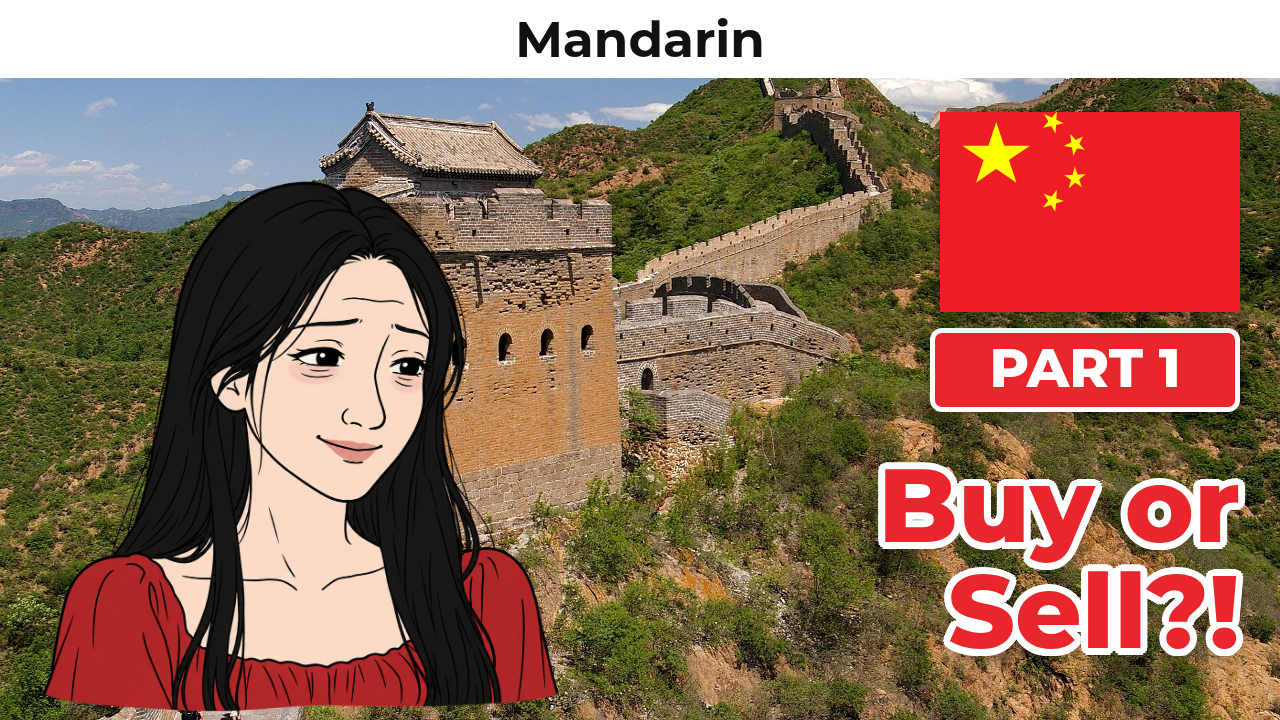
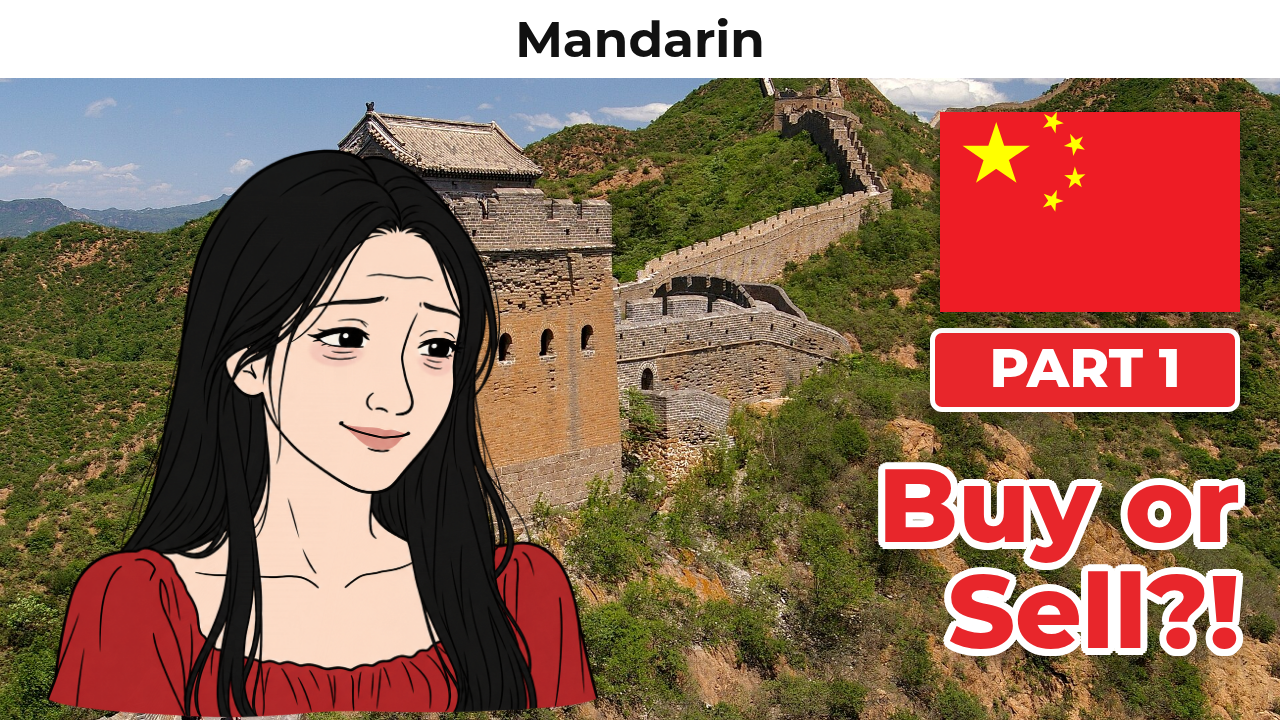
Thumbnails: trim Wojak margin so it sits on the bottom edge
Claude-Session: https://claude.ai/code/session_01JteZbjgJzANfm9zkD8PK4e

Changed region(s): [[0.0312, 0.1833, 0.4688, 1.0], [0.1562, 0.275, 0.1875, 0.3056]]

diff --git a/.claude/skills/lingodude-video-method/SKILL.md b/.claude/skills/lingodude-video-method/SKILL.md
@@ -57,7 +57,7 @@ Code lives in `lingo/` (repo anaqqad/Test). Commit and push every finished step 
 - Always the channel look:
   - white name strip with the language name;
   - real landscape photo (free licence from Commons, credited in the description);
-  - Wojak on the left, flag top right;
+  - Wojak on the left, touching the bottom edge (transparent margin trimmed, no gap), flag top right;
   - red PART label for series;
   - hook of 2 short lines in **red text with a white outline**, never another hook colour.
 - Hook examples: "This Isn't / Japanese?!", "No Relatives / At All?!", "Too / Polite?!".
